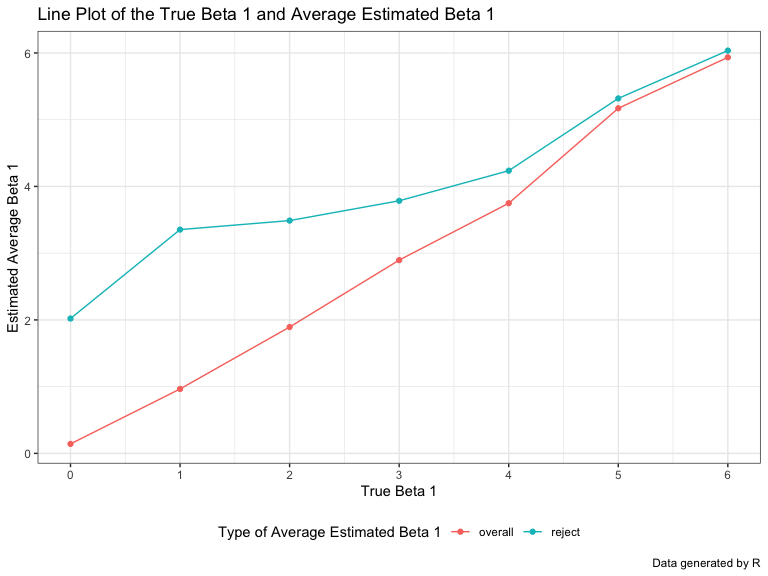
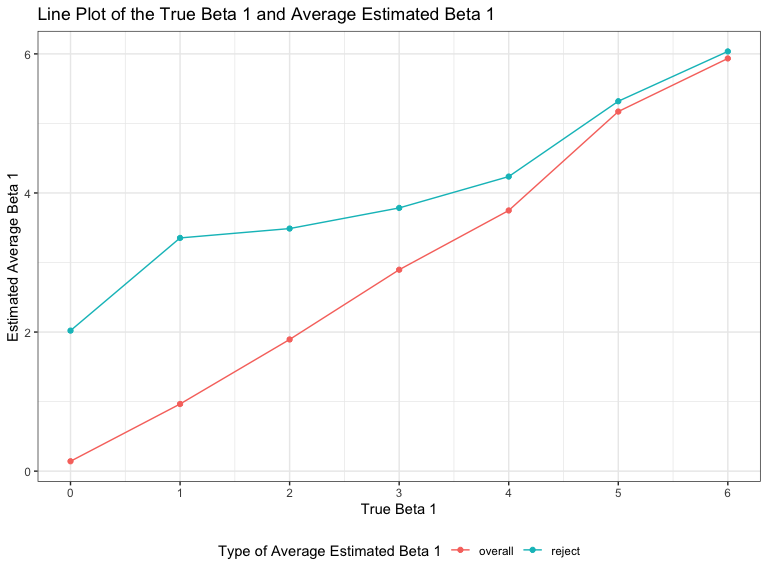
update for interpretation

diff --git a/hw5_kw2873.md b/hw5_kw2873.md
@@ -120,10 +120,8 @@ sim_regression = function(n = 30, beta0 = 2, beta1 = 0) {
   unnest
 ```
 
-plot showing the proportion of times the null was rejected (the power of
-the test) on the y axis and the true value of β2 on the x axis.
-
 ``` r
+## plot showing the proportion of times the null was rejected (the power of the test) on the y axis and the true value of β2 on the x axis.
   simulation %>% 
   mutate(decision = case_when(
     p_value <= 0.05 ~ "reject",
@@ -150,7 +148,7 @@ also increases
 
 ``` r
 simulation %>%  
- mutate(reject = case_when(
+ mutate(reject = case_when (
     p_value <= 0.05 ~ "reject",
     p_value > 0.05 ~ "failed to reject",
     TRUE ~ ""
@@ -171,16 +169,23 @@ simulation %>%
     names_prefix = "average_"
   ) %>% 
   ggplot(aes(x = beta1, y = value, color = type)) +
-  geom_point() +
-  geom_line(aes(group = type)) +
+  geom_point() + geom_line(aes(group = type)) +
   scale_x_continuous(breaks = c(0, 1, 2, 3, 4, 5, 6)) +
   scale_color_discrete("Type of Average Estimated Beta 1") +
   labs(
     title = "Line Plot of the True Beta 1 and Average Estimated Beta 1",
     x = "True Beta 1",
-    y = "Estimated Average Beta 1",
-    caption = "Data generated by R"
+    y = "Estimated Average Beta 1"
   )
 ```
 
 <img src="hw5_kw2873_files/figure-gfm/unnamed-chunk-5-1.png" width="90%" />
+
+Interpretation: According to the plot, we can see that the points at
+each true beta value for overall and rejected are somewhat different
+from each other. Although some of the point deviated far from each
+other, rejecting H0 means that the probability of estimation is not what
+is true is larger. Meanwhile som eof the points are closer together, and
+this could be caused by the large sample size we simulated, which will
+cause the randomly generated data to behavior more similar to the true
+beta.
